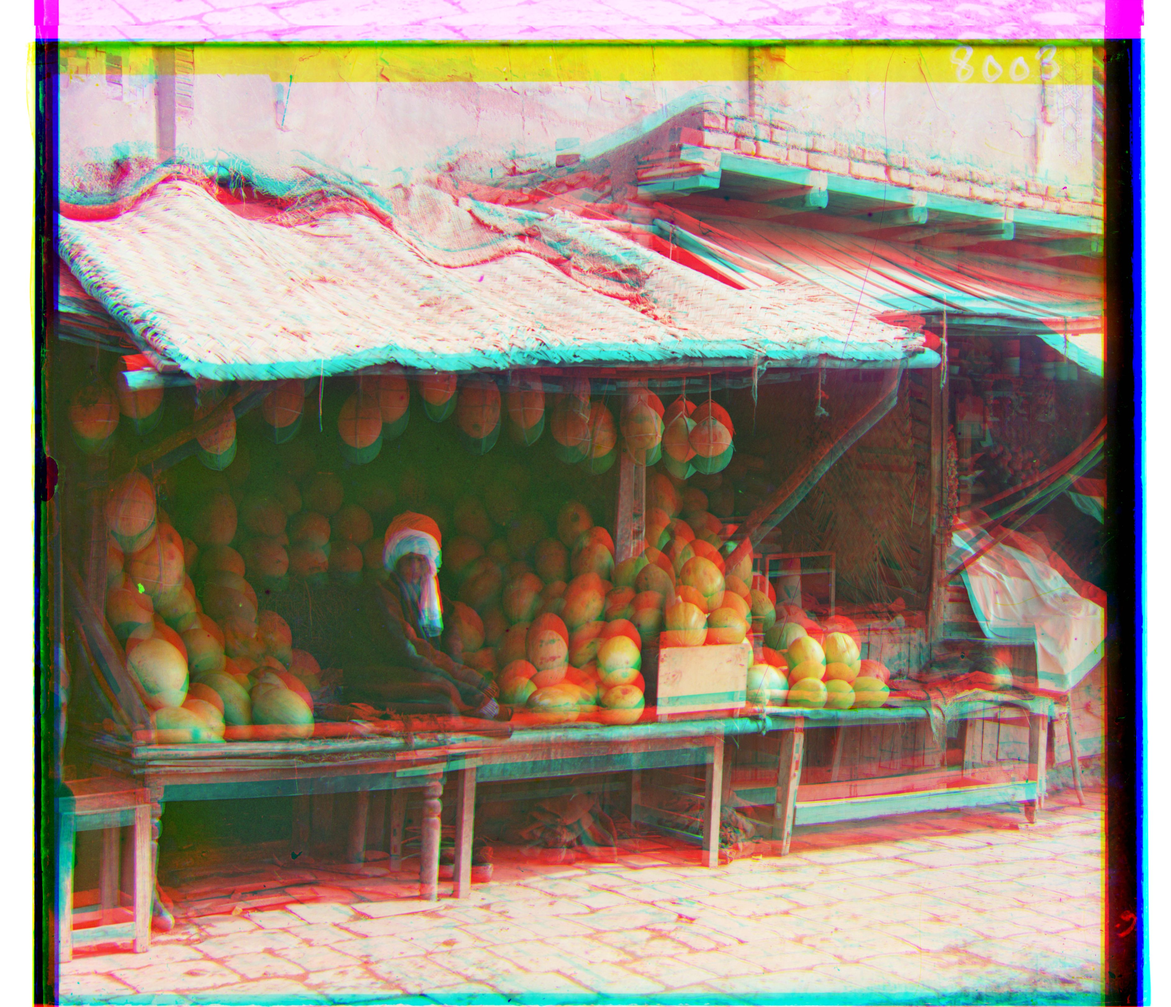
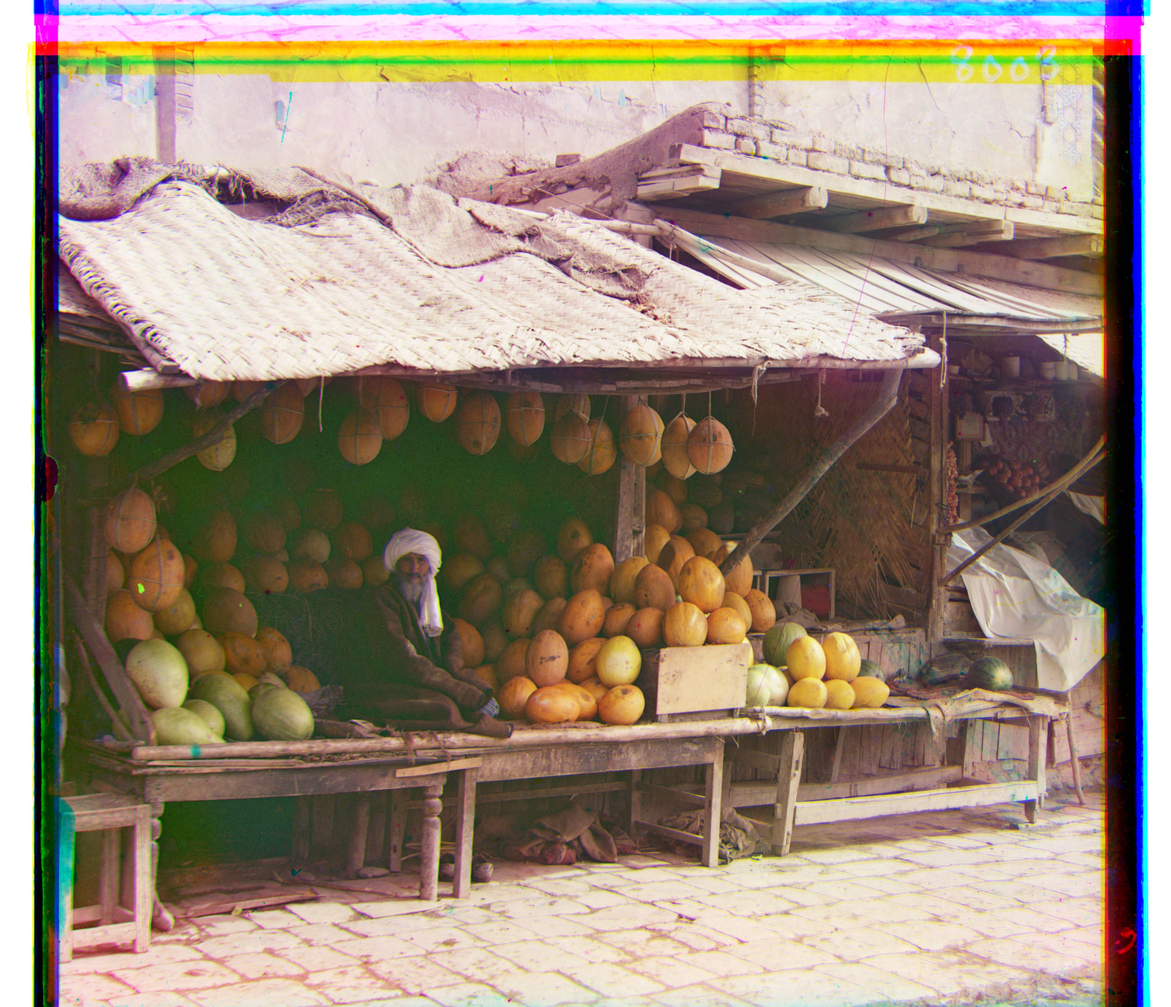
add updated melons and self_portrait and explanation

diff --git a/1/index.html b/1/index.html
@@ -107,7 +107,10 @@
 
       <h4>Multi-Scale Alignment</h4>
       <p>
-        For the larger .tif images, brute force over all displacements is too expensive. Instead, I use a coarse-to-fine pyramid strategy. I first downsample both channels to create a smaller version of the image. At this coarse level, I run the same brute force search to estimate a rough alignment. Then, I scale this displacement up (by a factor of two) and apply it to the higher-resolution image. Around this upsampled shift, I run a small local search to refine the alignment. This process repeats until I reach the full-resolution image, where only a small correction is needed. In practice, this makes the alignment efficient while still achieving high accuracy. This was easily implemented using recursion.
+        For the larger .tif images, brute force over all displacements is too expensive. Instead, I use a coarse-to-fine pyramid strategy. I first downsample both channels to create a smaller version of the image. At this coarse level, I run the same brute force search to estimate a rough alignment. Then, I scale this displacement up (by a factor of two) and apply it to the higher-resolution image. Around this upsampled shift, I run a local search to refine the alignment. This process repeats until I reach the full-resolution image, where only a small correction is needed. In practice, this makes the alignment efficient while still achieving high accuracy. This was easily implemented using recursion.
+      </p>
+      <p>
+        Using a constant displacement window size at each pyramid level worked well for nearly all images. However, I found that for <code>melons.tif</code> and <code>self_portrait.tif</code>, alignment was noticeably better when the displacement window doubled each time I halved the resolution. The reason is that at coarser levels, the same pixel shift represents a larger motion in the original image, so keeping the search window fixed can miss the true alignment. Allowing the displacement range to grow proportionally at coarser scales makes the pyramid more robust to large misalignments present in the full-resolution images.
       </p>
     </section>    
 
